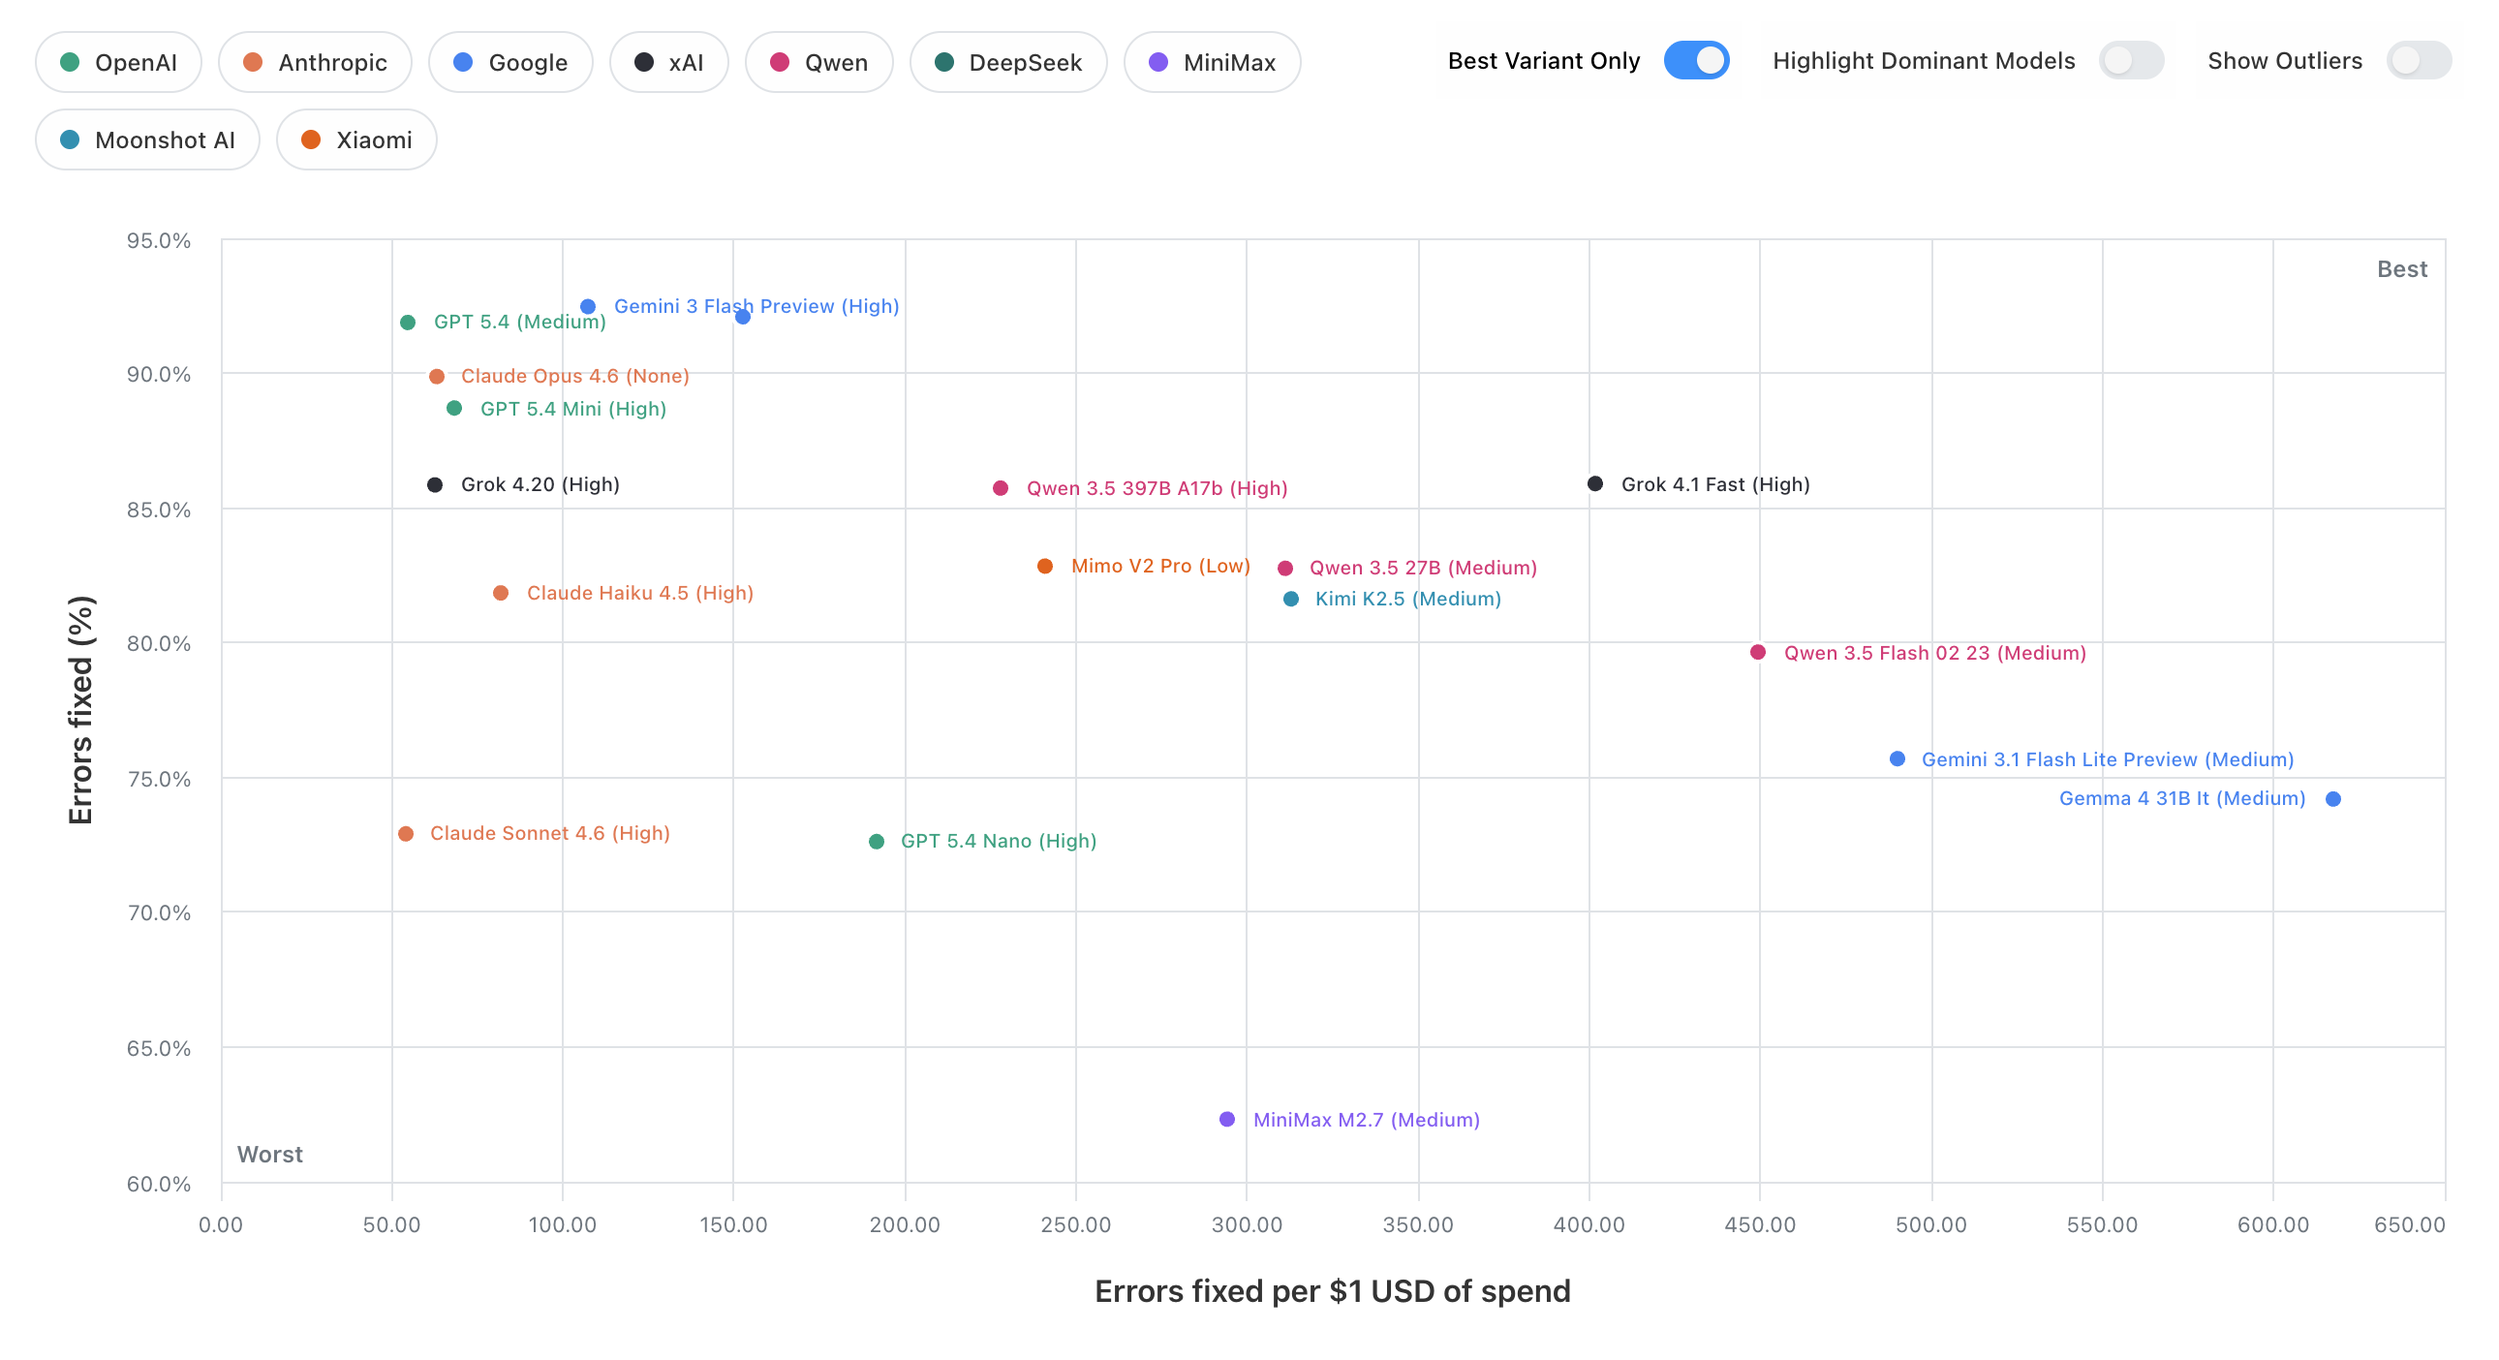
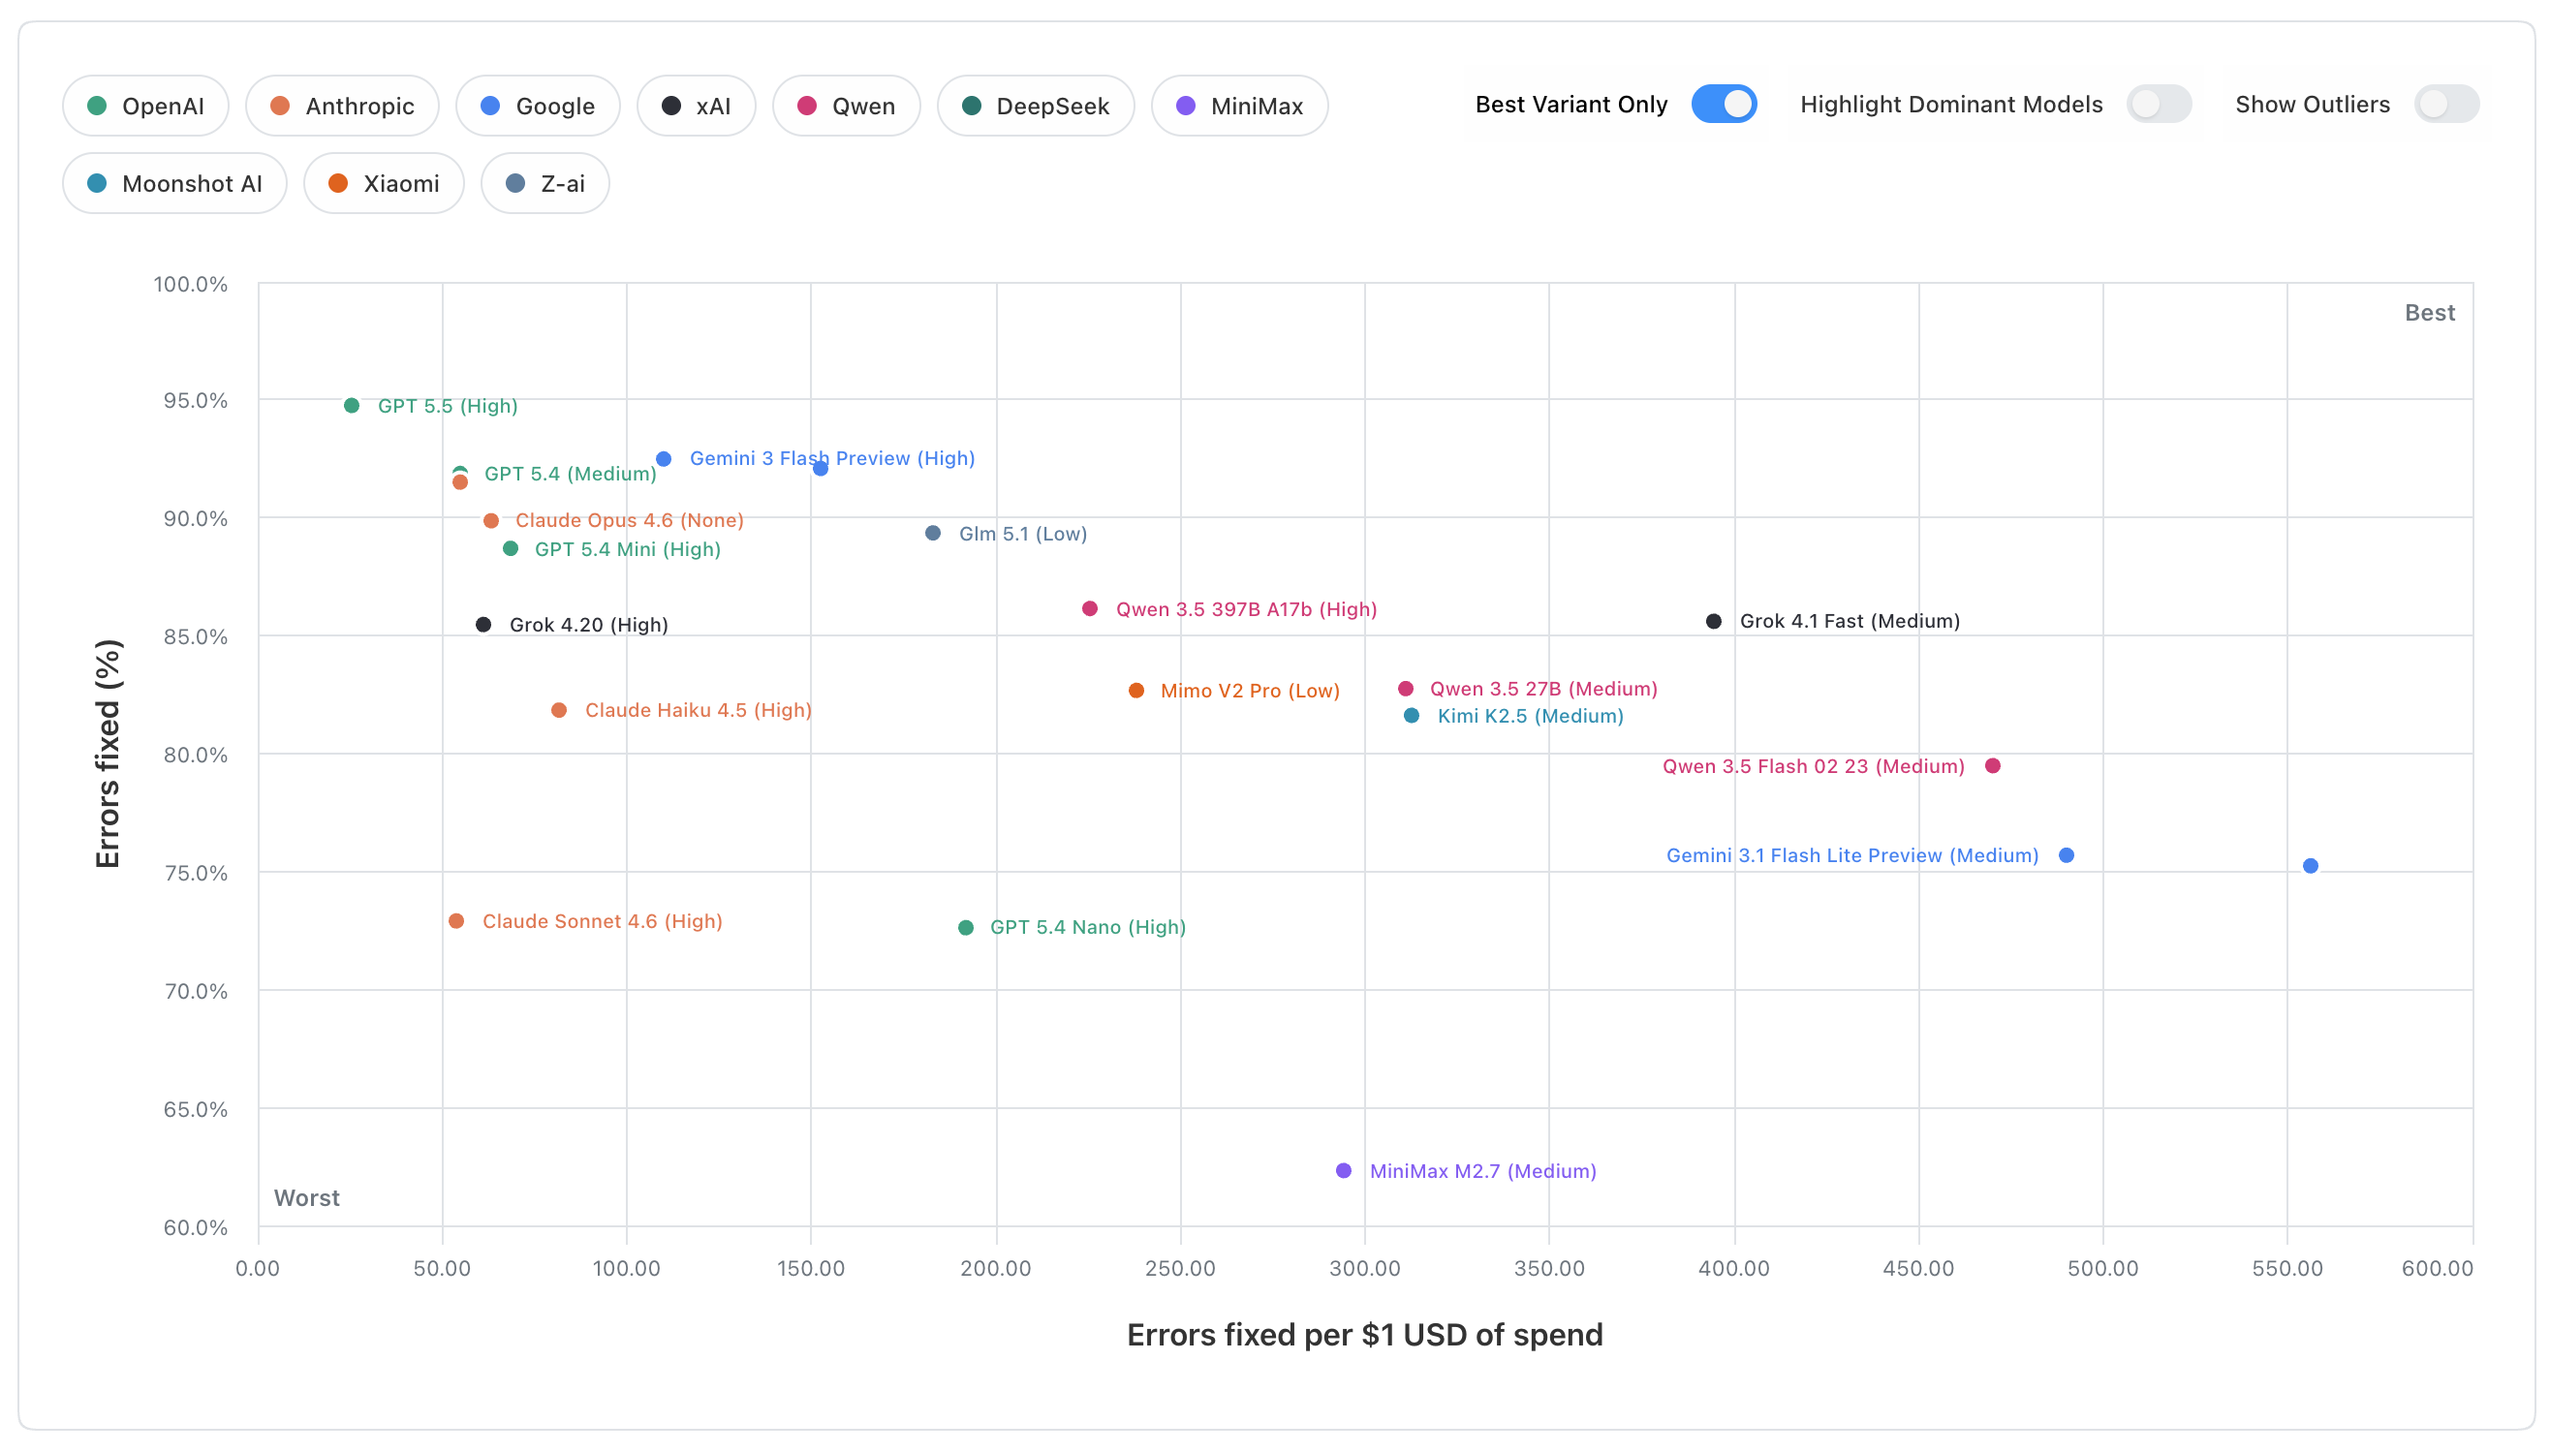
update result previews

diff --git a/README.md b/README.md
@@ -8,8 +8,8 @@ A public viewer for the latest run is hosted at [https://revise.io/errata-bench]
 
 The official result set included in this repo covers 51 model variants across 1600+ run samples. Instructions can be found below for running the benchmark yourself with an OpenRouter API key, or OpenAI-compatible API.
 
-[![Results preview](./results_preview.png)](https://revise.io/errata-bench)
-[![Scatterplot preview](./scatterplot_preview.png)](https://revise.io/errata-bench)
+[![Results preview](https://raw.githubusercontent.com/reviseio/errata-bench/refs/heads/main/results_preview.png)](https://revise.io/errata-bench)
+[![Scatterplot preview](https://raw.githubusercontent.com/reviseio/errata-bench/refs/heads/main/scatterplot_preview.png)](https://revise.io/errata-bench)
 
 ## Running the benchmark
 
